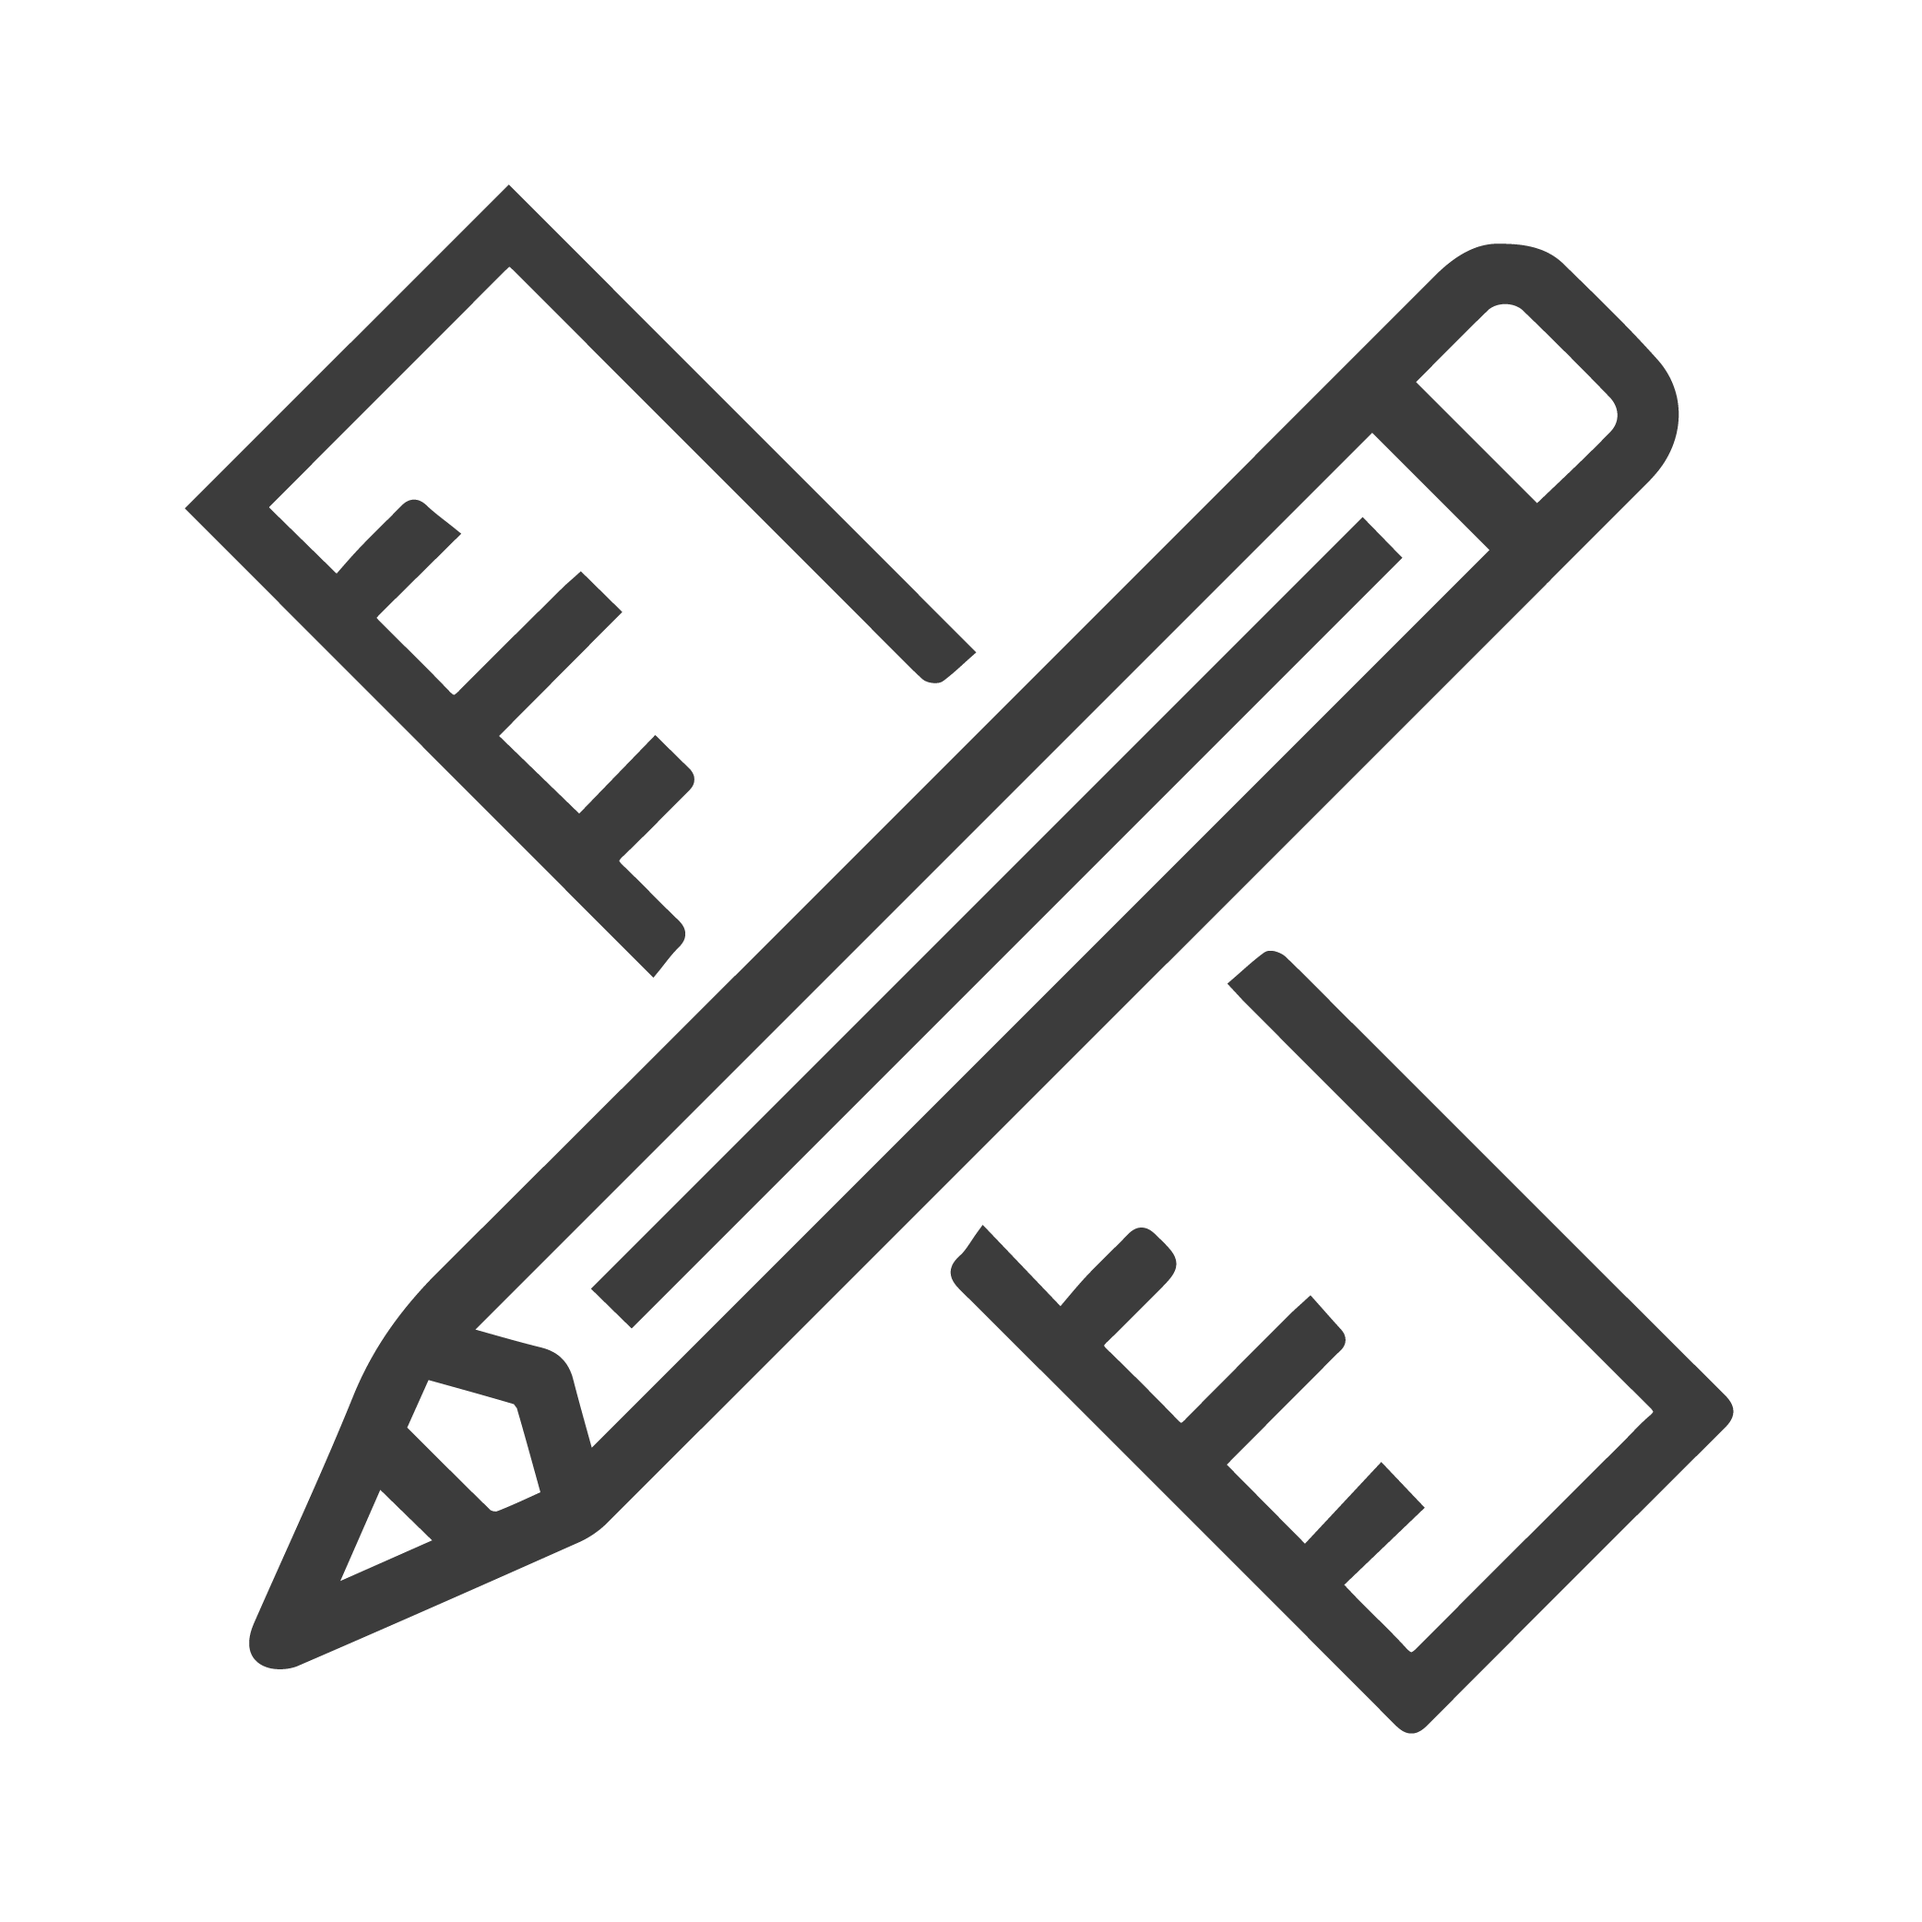
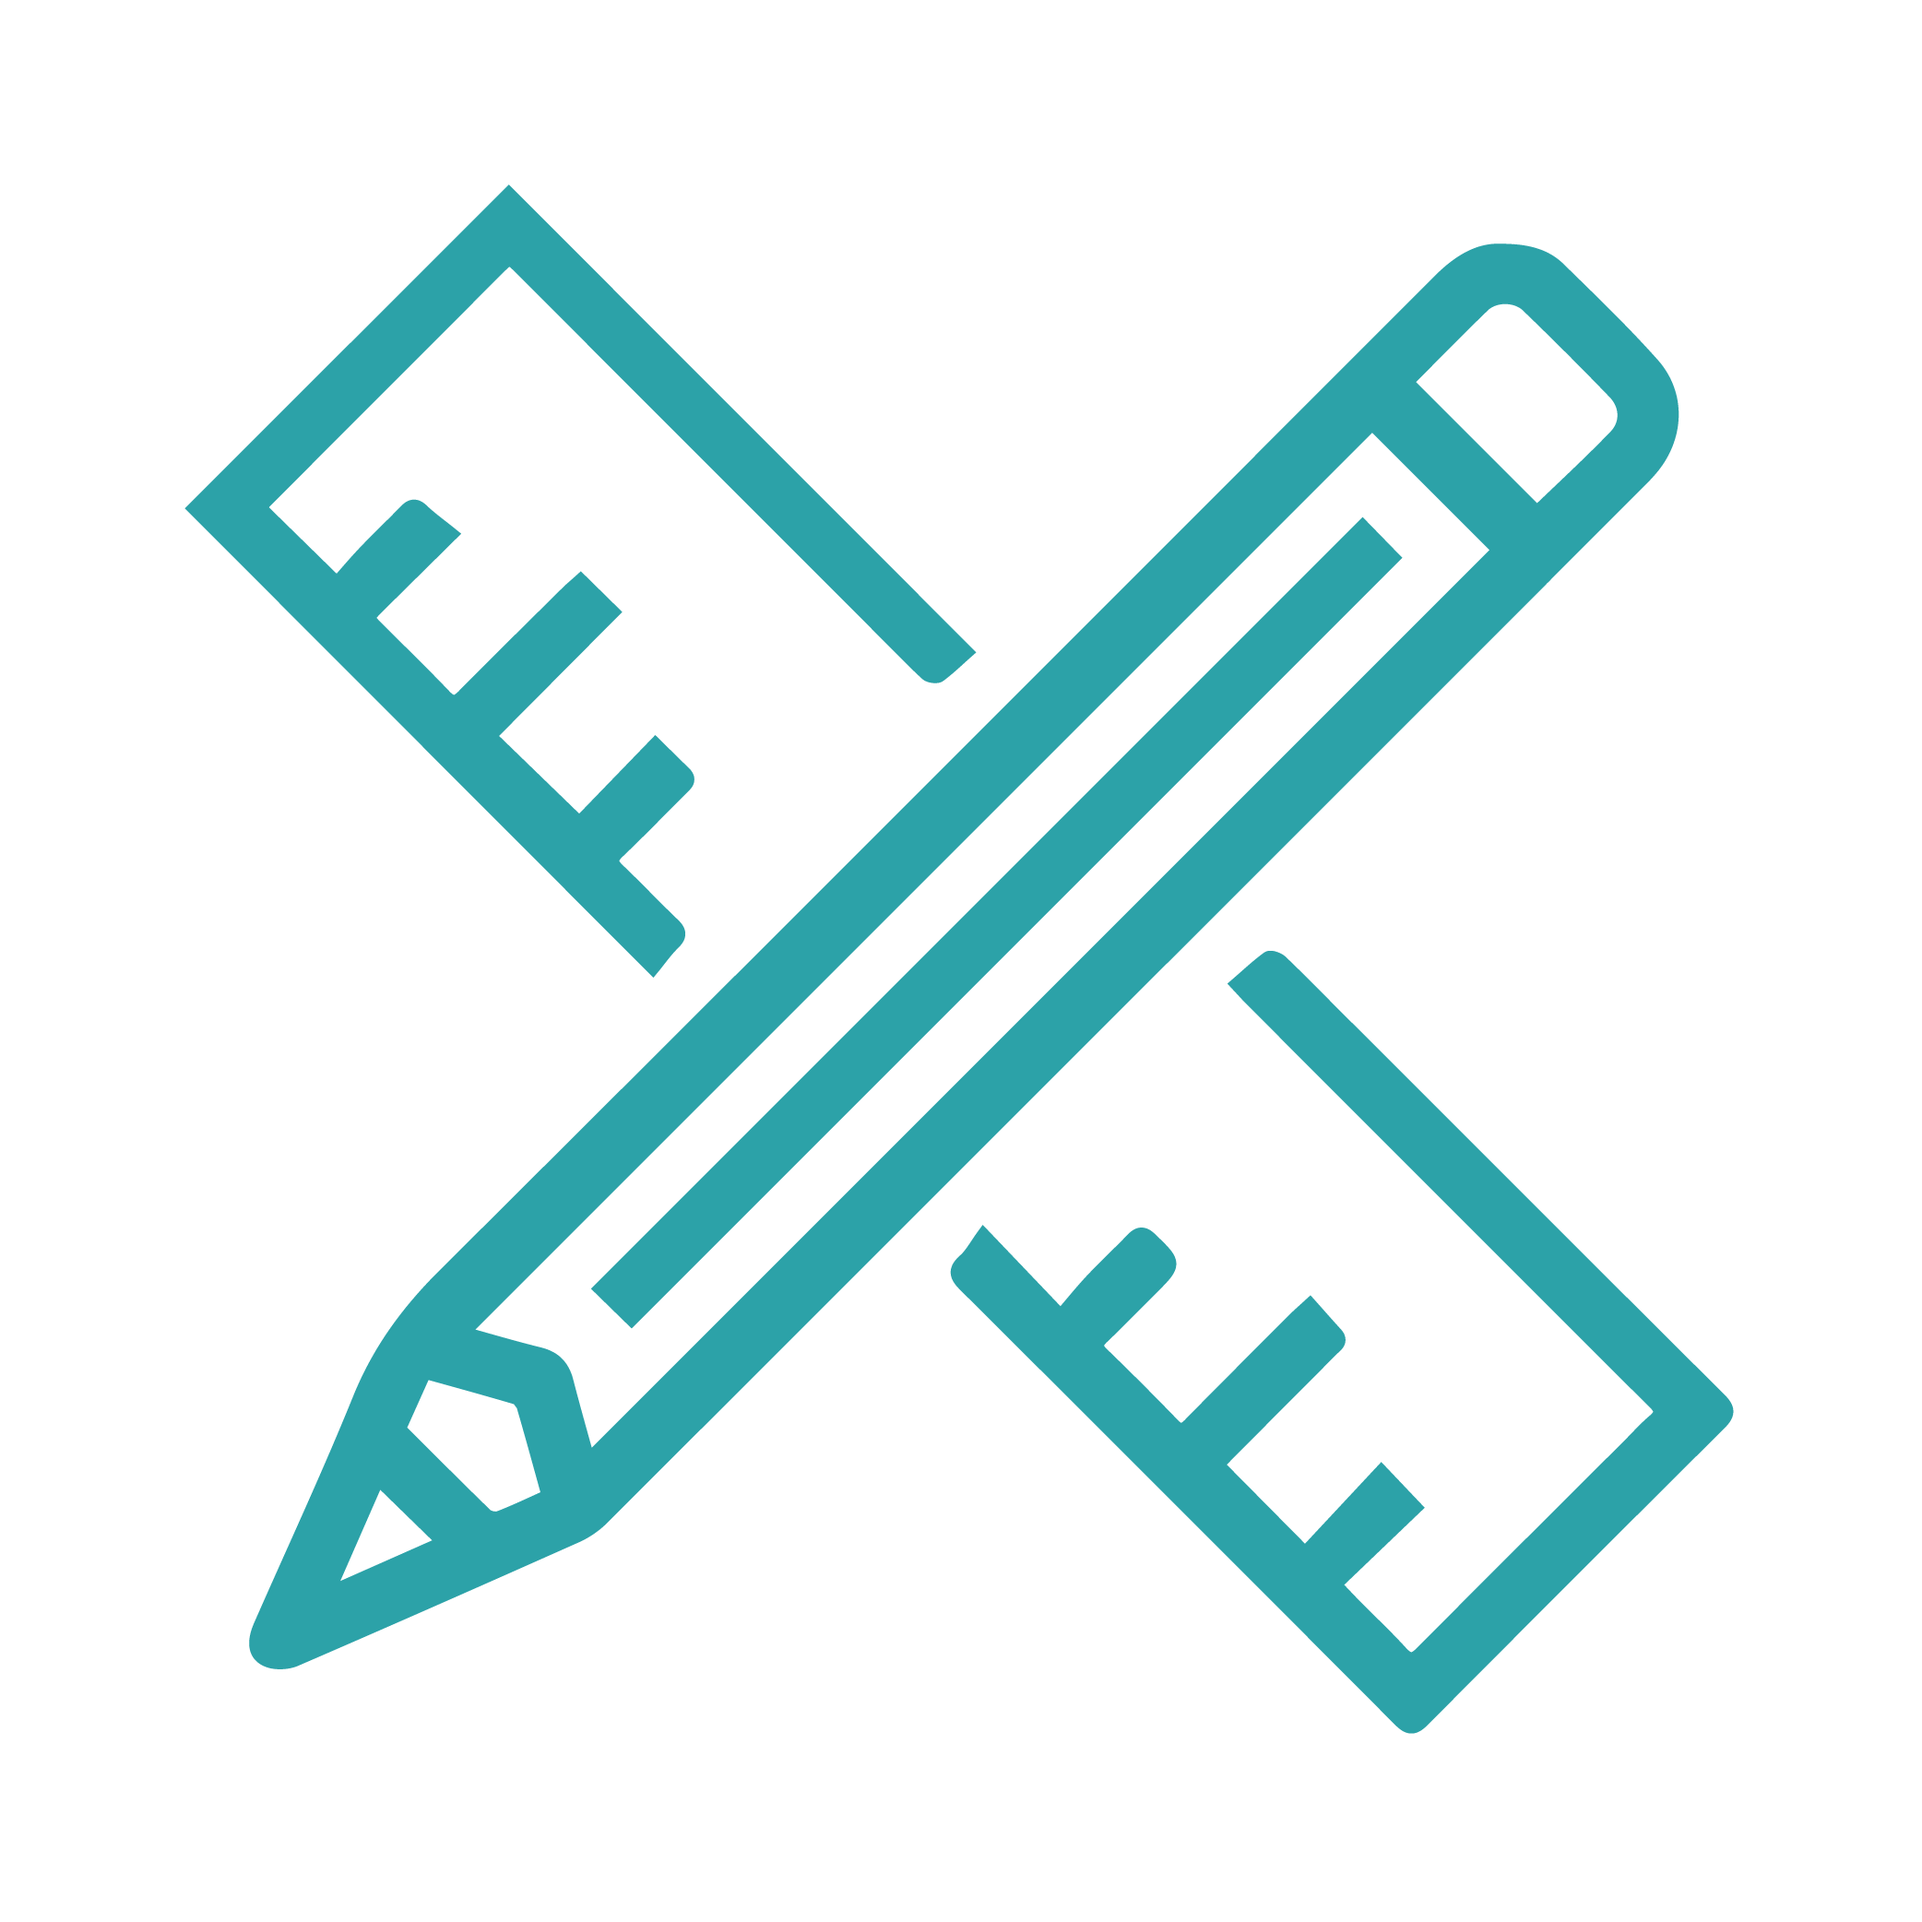
1110

Changed region(s): [[0.0936, 0.0936, 0.9045, 0.9045]]

diff --git a/css/style.css b/css/style.css
@@ -84,7 +84,7 @@ a {
 }
 a:hover, a:focus {
 	text-decoration: none;
-	color:#71c9a5;
+	color:#058D9B;
 }
 
 a:visited {
@@ -170,7 +170,7 @@ height: 23px;
 	letter-spacing: 1.6px;
 }
 #menu.navbar-default .navbar-nav > li > a:hover {
-	color:#71c9a5;
+	color:#079299;
 	font-weight: 550;
 }
 
@@ -221,7 +221,7 @@ height: 23px;
 
 
 #header{
-	background-color: #fdfdfd;
+	background-color: #fefefe;
 	padding-top: 0%; 
 	padding-bottom: 1.1%; 
 }
@@ -275,7 +275,7 @@ header .intro-text {
 /* Portfolio Section */
 #portfolio {
 	padding-top: 2.5%; 
-	background-color: #fcfcfc;
+	background-color: #fefefe;
 }
 
 
@@ -436,7 +436,7 @@ ol.type li a:hover {
 #portfolio i.fa {
 	font-size: 20px;
 	padding: 5px;
-	color: #92d6c1;
+	color: #079299;
 }
 
 
@@ -485,7 +485,7 @@ padding-right: 10%;
 
 
 #about .fa-caret-right{
-color: #71c9a5;
+color: rgba(7,146,153,0.8);
 }
 
 
@@ -1324,6 +1324,8 @@ filter: progid:DXImageTransform.Microsoft.gradient( startColorstr='#ffffff', end
 
 
 
+
+
 /* Footer Section*/
 #footer {
 	background: rgba(22, 21, 21, 0.9);
@@ -1374,7 +1376,7 @@ filter: progid:DXImageTransform.Microsoft.gradient( startColorstr='#ffffff', end
 
 #footer a:hover, a:focus{
 	text-decoration: none;
-	color: rgba(255,255,255,0.9);
+	color: #DAEDEB;
 	font-weight: 500;
 }
 
@@ -1393,6 +1395,9 @@ filter: progid:DXImageTransform.Microsoft.gradient( startColorstr='#ffffff', end
 .footer_contact{
 	padding-top: 6%;
 }
+
+
+
 
 
 

diff --git a/index.html b/index.html
@@ -321,7 +321,7 @@ $(window).on("load",function() {
         </div>
       </div>
       <div class="col-md-4 col-sm-6 team">
-        <div class="thumbnail"> <div class="fade"><img src="img/skill_set/skillset_tools.png" alt="Tools" class="team-img"></div>
+        <div class="thumbnail"> <div class="fade"><img src="img/skill_set/skillset_values.png" alt="Values" class="team-img"></div>
           <div class="caption">
             <h4 class="fade">Values</h4>
             <p class="fade">
